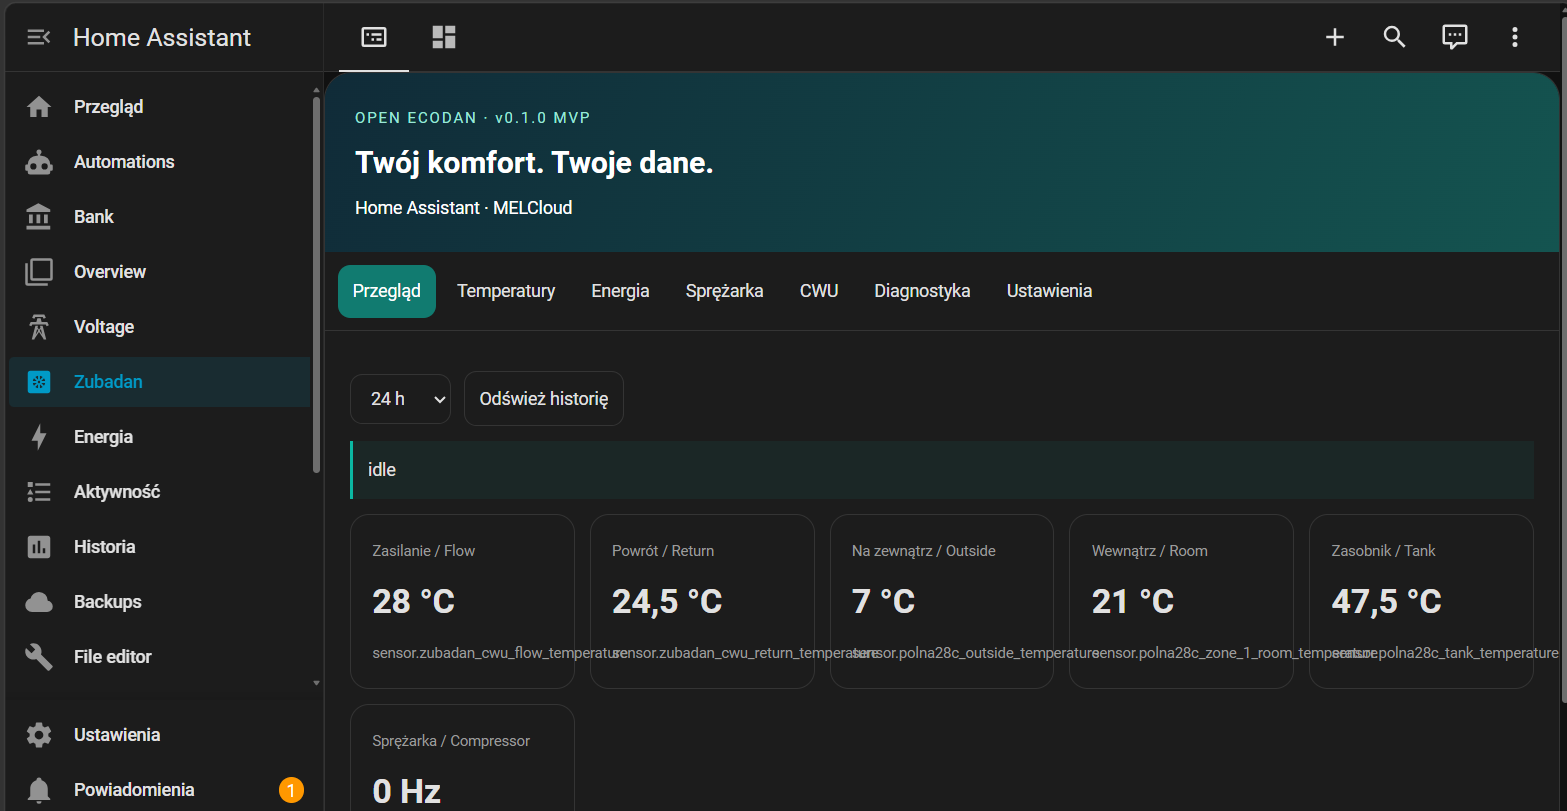
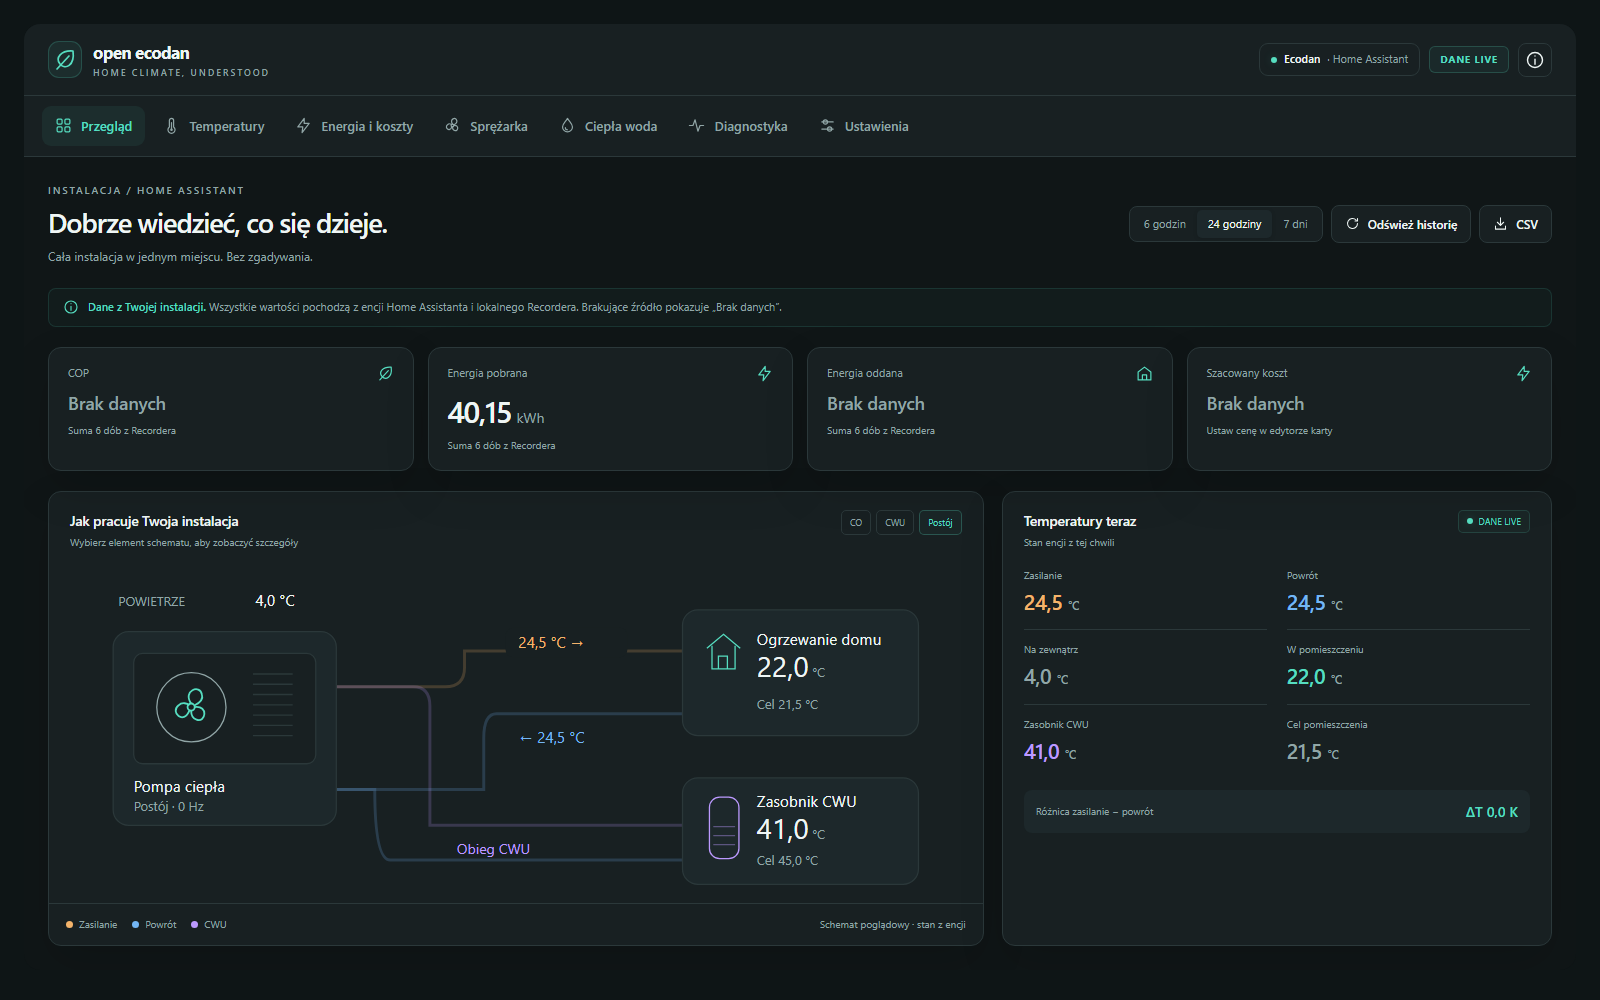
update readme

diff --git a/README.en.md b/README.en.md
@@ -2,6 +2,11 @@
 
 Free, MIT-licensed Lovelace card for existing Mitsubishi Ecodan entities in Home Assistant. [Polski](README.md).
 
+<div align="center">
+  <img src="docs/images/open-ecodan-dashboard-preview.png" alt="Open Ecodan Dashboard — dark overview with installation diagram and current temperatures" width="1200" />
+  <p><em>Overview rendered with example readings matching a Home Assistant screenshot.</em></p>
+</div>
+
 **0.2.1: implemented software, running on one real Home Assistant installation; readings are not yet cross-checked against hardware counters.** No affiliation with Mitsubishi Electric. No proprietary code, assets or private account data are included.
 
 ## Features

diff --git a/README.md b/README.md
@@ -3,7 +3,8 @@
 A lightweight Lovelace card for Mitsubishi Ecodan in Home Assistant.
 
 <div align="center">
-  <img src="docs/images/open-ecodan-dashboard-preview.png" alt="Open Ecodan Dashboard preview" width="1200" />
+  <img src="docs/images/open-ecodan-dashboard-preview.png" alt="Open Ecodan Dashboard — dark overview with installation diagram and current temperatures" width="1200" />
+  <p><em>Overview rendered with example readings matching a Home Assistant screenshot.</em></p>
 </div>
 
 ## Overview
